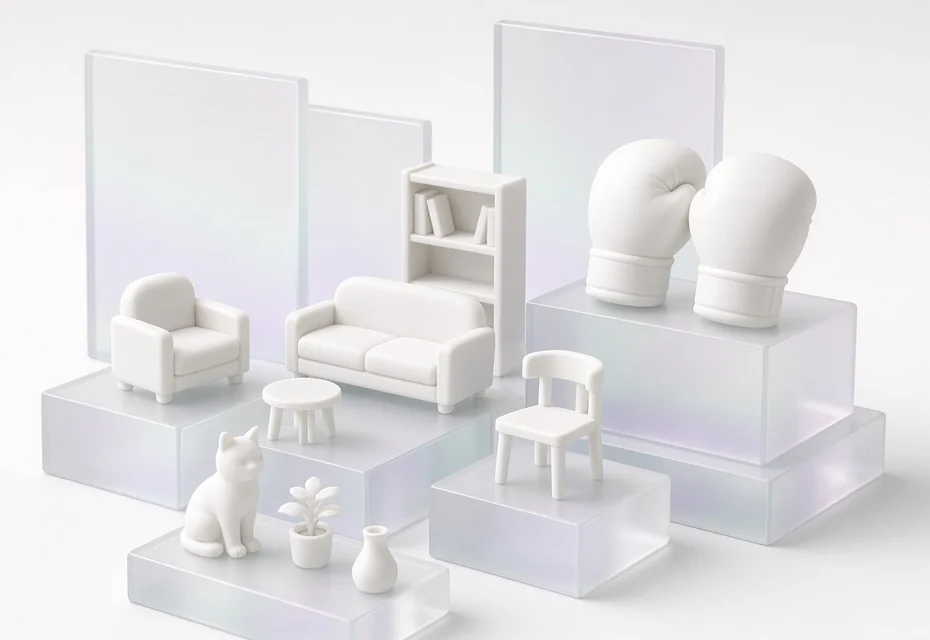
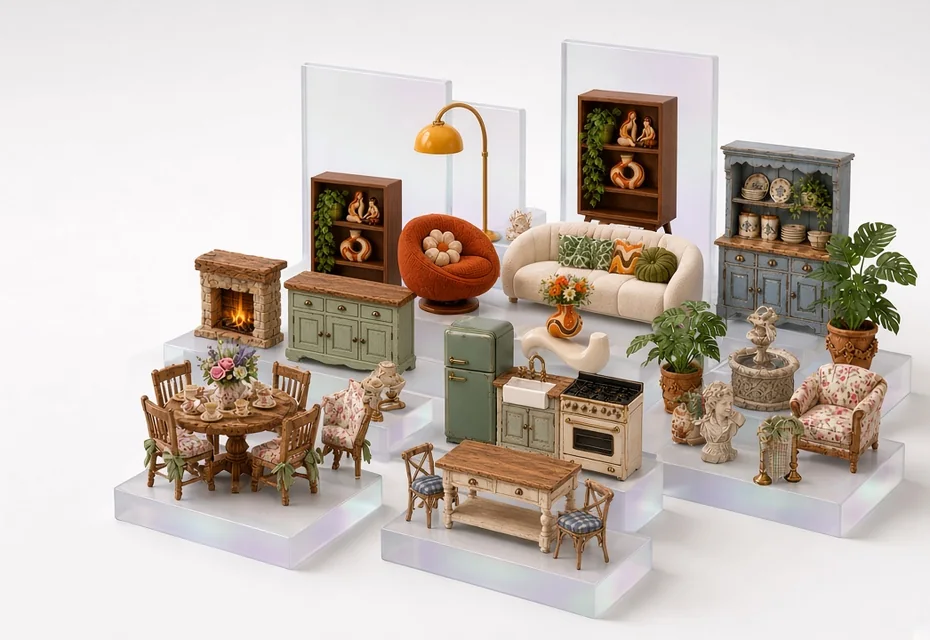
Shop: furniture vignette hero
Replace the shop hero images with the approved colorful 1:12 miniature furniture renders and update the alt text.

diff --git a/index.html b/index.html
@@ -76,7 +76,7 @@ var m=document.querySelector('meta[name=theme-color]');if(m)m.content=document.d
     <div class="hero-fallback v-portfolio" aria-hidden="true"><span></span><span></span><span></span></div>
     <picture class="hero-img v-shop">
       <source media="(max-width:760px)" srcset="assets/hero-shop-mobile.webp" width="930" height="640">
-      <img src="assets/hero-shop.webp" width="1280" height="720" fetchpriority="high" decoding="async" alt="White 3D-printed models on frosted glass plinths: boxing gloves, a miniature armchair, sofa, table, chair and bookshelf, and a small cat figurine">
+      <img src="assets/hero-shop.webp" width="1280" height="720" fetchpriority="high" decoding="async" alt="Colorful 1:12 miniature dollhouse furniture on frosted glass plinths, including a dining set, fireplace, sofa, armchair, kitchen, bookcases, and plants">
     </picture>
     <div class="hero-inner">
       <div class="hero-card glass reveal v-shop">
